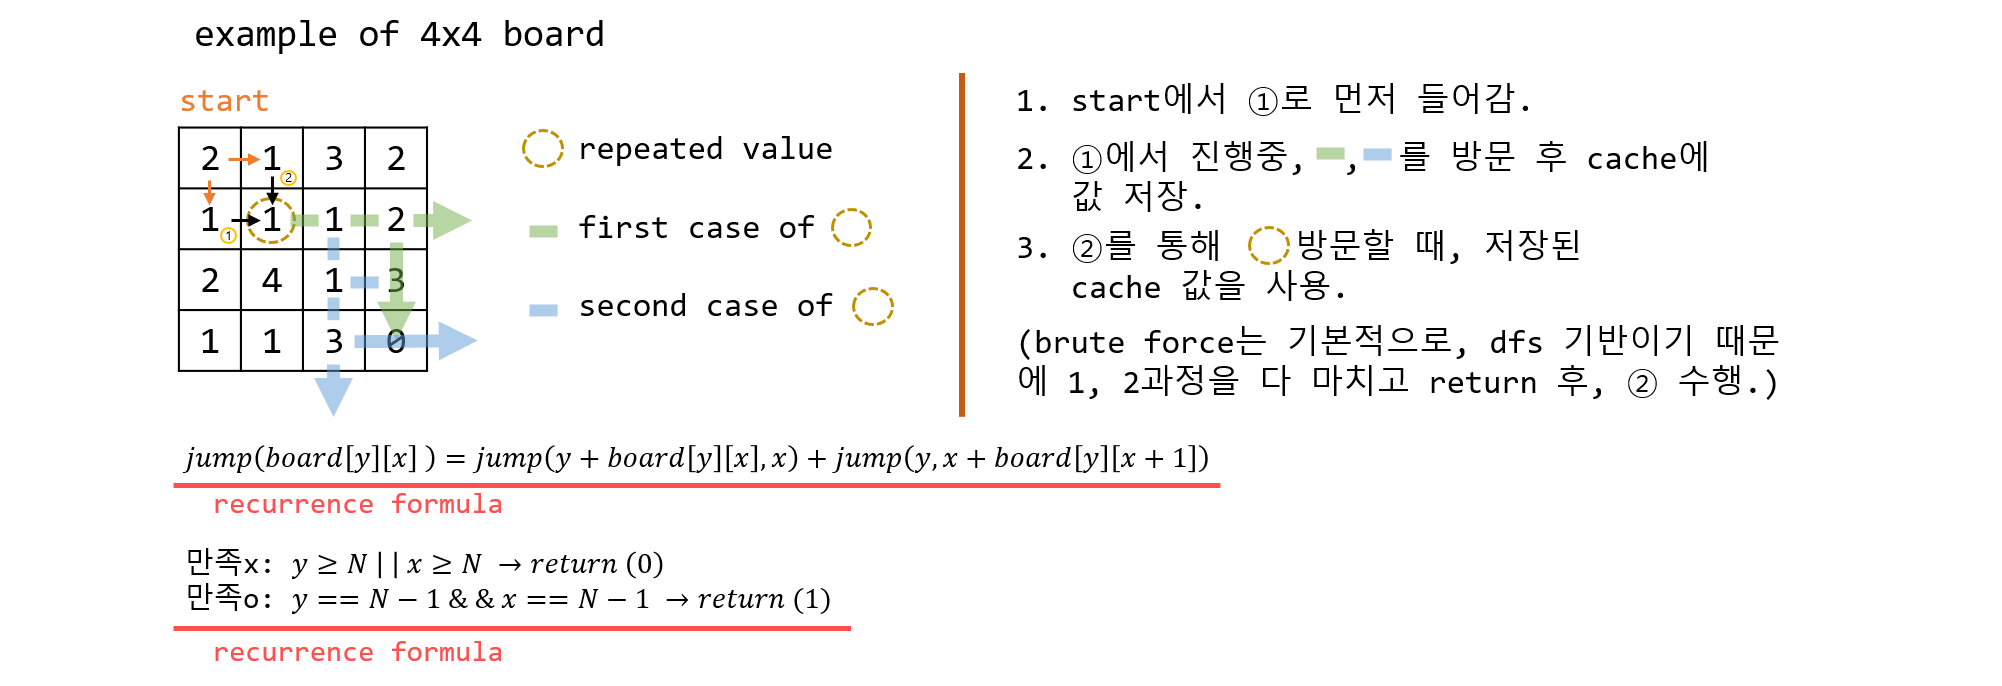
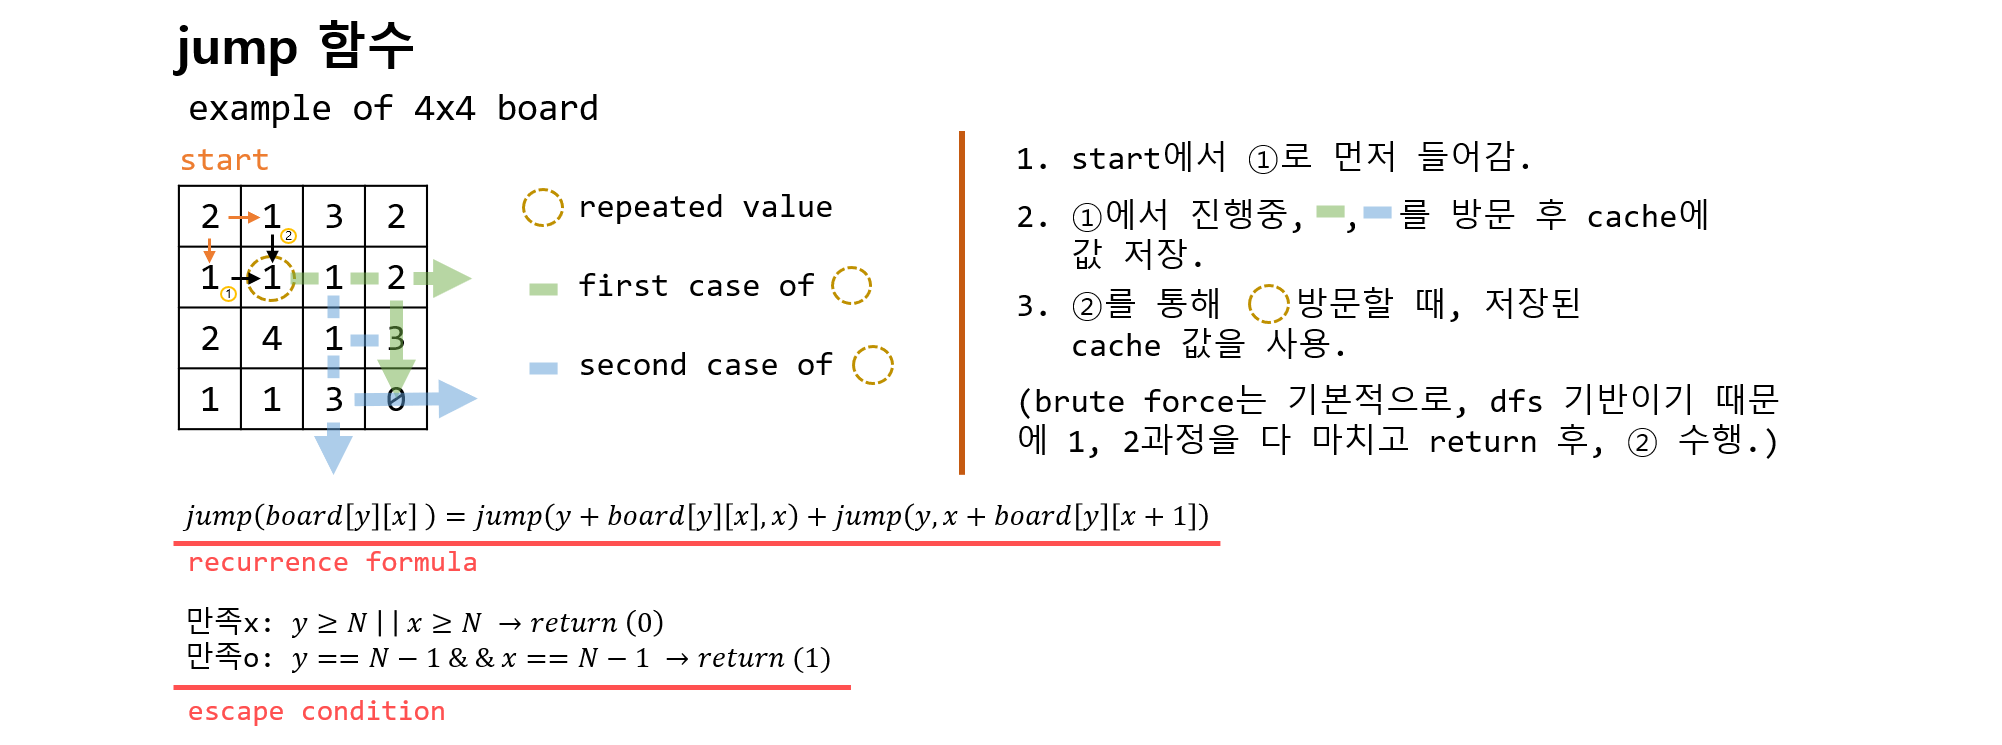
[dp] modify pngs to add recurrene formula

diff --git a/APSS/dynamic_programming/LIS/LIS.cpp b/APSS/dynamic_programming/LIS/LIS.cpp
@@ -11,6 +11,7 @@ int n;
 int S[100], cache[101];
 
 int lis(int start) {
+	if (start == n - 1) return (1);
 	// start가 -1부터 시작. 인덱스는 0부터로 맞춰주기
 	int &ret = cache[start + 1];
 	if (ret != -1) {
